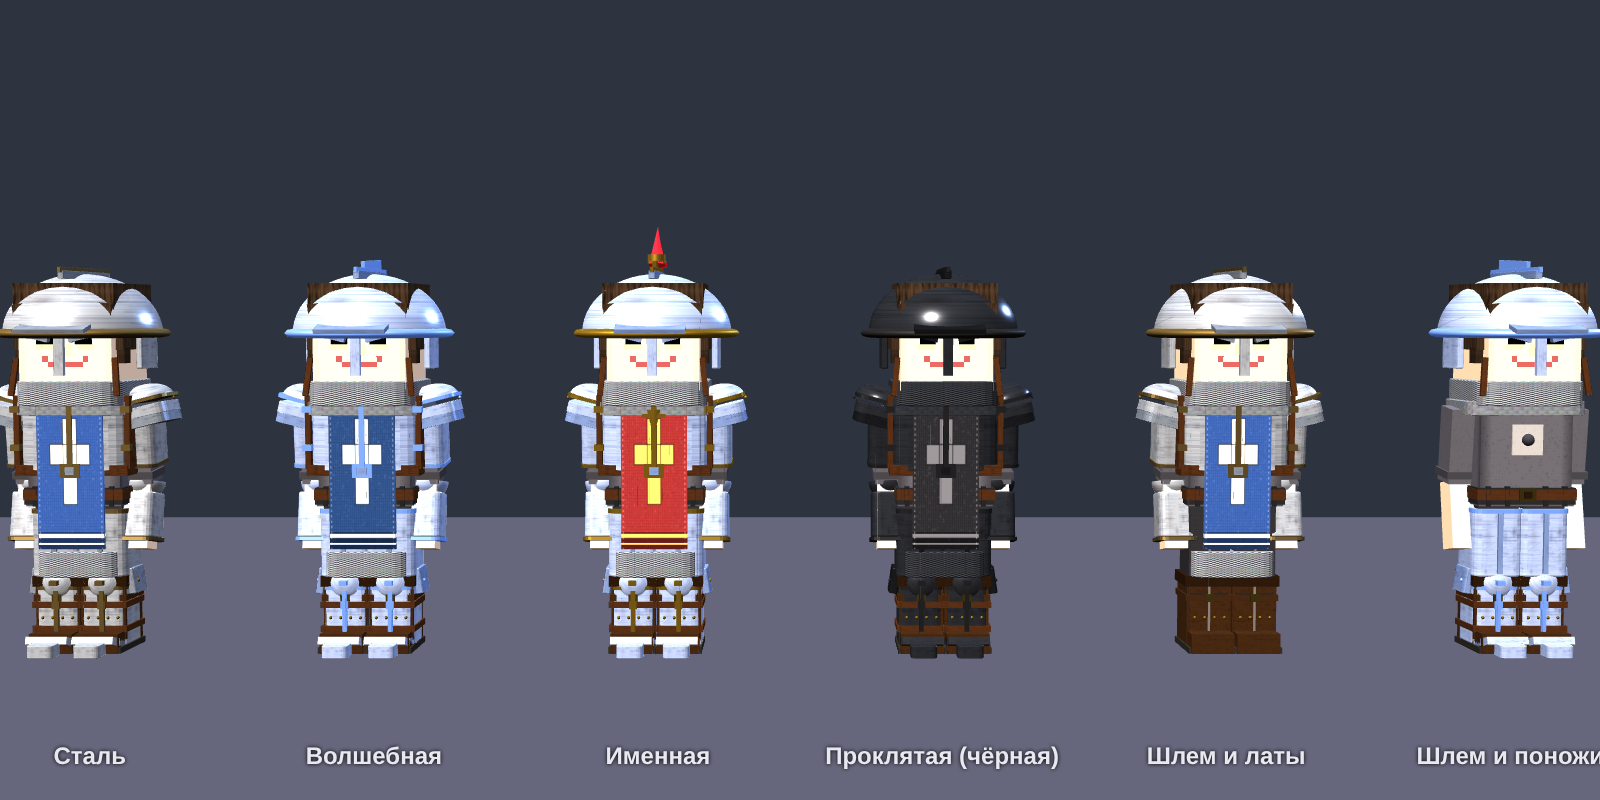
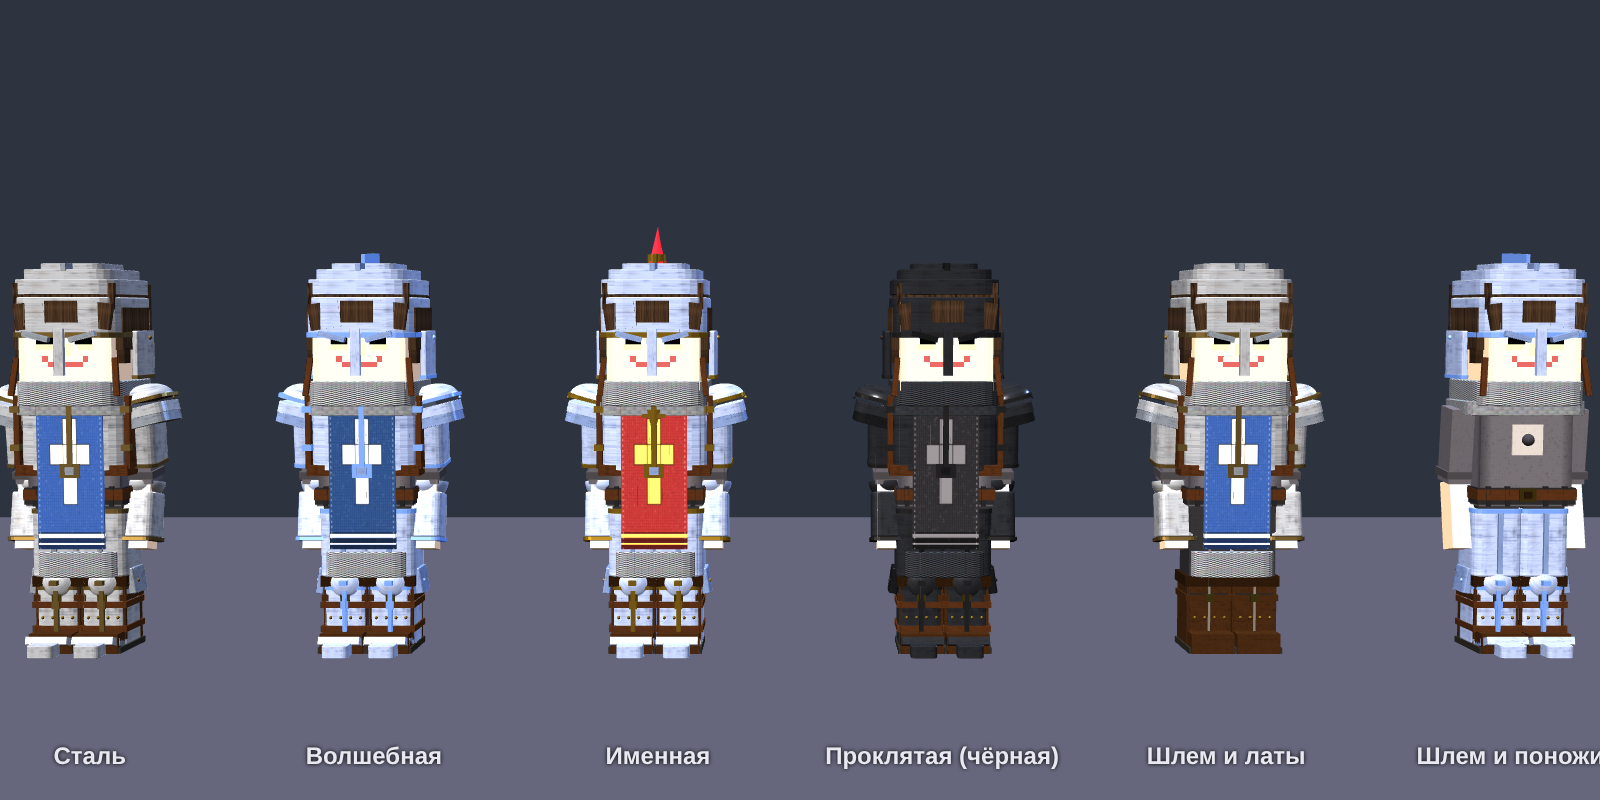
Броня (превью): лёгкий открытый норманнский шлем

diff --git a/src/entities/KnightArmorLook.js b/src/entities/KnightArmorLook.js
@@ -133,16 +133,15 @@ const rivets = (p, mat, list, r, n, x0, x1, y, z) => { for (let i = 0; i < n; i+
 export function helmetParts(p, code, list, dk = false) {
     const s = steel(code, dk), d = darkSteel(code, dk), t = trim(code, dk), ml = mail(dk), lt = strap(), rm = rivetMat(code, dk);
     const rb = (m, w, h, dd, x, y, z, rx, ry, rz) => put(p, RBOX(), m, list, x, y, z, w, h, dd, rx, ry, rz);
-    // the skull: ONE smooth round dome (a hemisphere big enough to wrap the box head's corners), a flared rim, a raised comb, a small front peak
-    put(p, DOME(), s, list, 0, 0.14, 0, 1.98, 1.56, 1.98);
-    put(p, geo('torusR', () => new THREE.TorusGeometry(0.5, 0.06, 8, 32)), t, list, 0, 0.14, 0, 1.96, 1.96, 1, Math.PI / 2); // the rim band (a rolled edge)
-    for (let i = 0; i < 14; i++) { const a = i / 14 * Math.PI * 2; rivet(p, rm, list, 0.045, Math.cos(a) * 0.98, 0.15, Math.sin(a) * 0.98); }
-    rb(d, 0.12, 0.1, 1.5, 0, 0.9, 0.05); rb(t, 0.07, 0.07, 1.6, 0, 0.96, 0.05); // the comb along the top
-    bx(p, d, list, 0.9, 0.06, 0.28, 0, 0.2, -0.98, -0.25); // a small peak over the face
-    if (code >= 2) bx(p, t, list, 0.05, 0.2, 0.9, 0, 1.0, 0.1, -0.05); // a thin fin
+    // a light open Norman cap: a close round skull (four rounded layers that hug the box head and cover the hair — no brim), a thin brow band, a comb along the top
+    rb(s, 1.4, 0.5, 1.4, 0, 0.36, 0); rb(s, 1.38, 0.2, 1.38, 0, 0.74, 0); rb(s, 1.2, 0.14, 1.2, 0, 0.9, 0); rb(s, 0.86, 0.1, 0.86, 0, 1.0, 0);
+    rb(t, 1.44, 0.07, 1.44, 0, 0.12, 0);
+    for (let i = 0; i < 12; i++) { const a = i / 12 * Math.PI * 2; rivet(p, rm, list, 0.045, Math.cos(a) * 0.73, 0.12, Math.sin(a) * 0.73); }
+    rb(d, 0.1, 0.1, 1.3, 0, 1.0, 0.04); // the comb
+    if (code >= 2) bx(p, t, list, 0.05, 0.18, 0.8, 0, 1.1, 0.06, -0.05); // a thin fin
     // a Norman nasal and brow peaks (the face stays open)
     bx(p, s, list, 0.12, 0.6, 0.07, 0, -0.1, -0.78);
-    for (const sx of [-1, 1]) { bx(p, d, list, 0.34, 0.07, 0.08, sx * 0.3, 0.1, -0.78, 0, 0, sx * 0.25); rb(s, 0.1, 0.5, 0.56, sx * 0.78, -0.08, 0.14); rivet(p, rm, list, 0.06, sx * 0.84, 0.1, 0.2); }
+    for (const sx of [-1, 1]) { bx(p, d, list, 0.34, 0.07, 0.08, sx * 0.3, 0.1, -0.78, 0, 0, sx * 0.25); rb(s, 0.1, 0.62, 0.6, sx * 0.74, -0.14, 0.12); rb(t, 0.12, 0.05, 0.62, sx * 0.74, -0.44, 0.12); rivet(p, rm, list, 0.06, sx * 0.8, 0.08, 0.2); }
     // the camail: a mail hood hanging from the helm over the neck and the shoulders
     rb(ml, 1.4, 0.32, 1.38, 0, -0.64, 0.02); rb(ml, 1.56, 0.18, 1.1, 0, -0.84, 0.02);
     for (const sx of [-1, 1]) bx(p, lt, list, 0.07, 0.5, 0.05, sx * 0.66, -0.42, -0.62, 0.15, 0, sx * 0.1);
